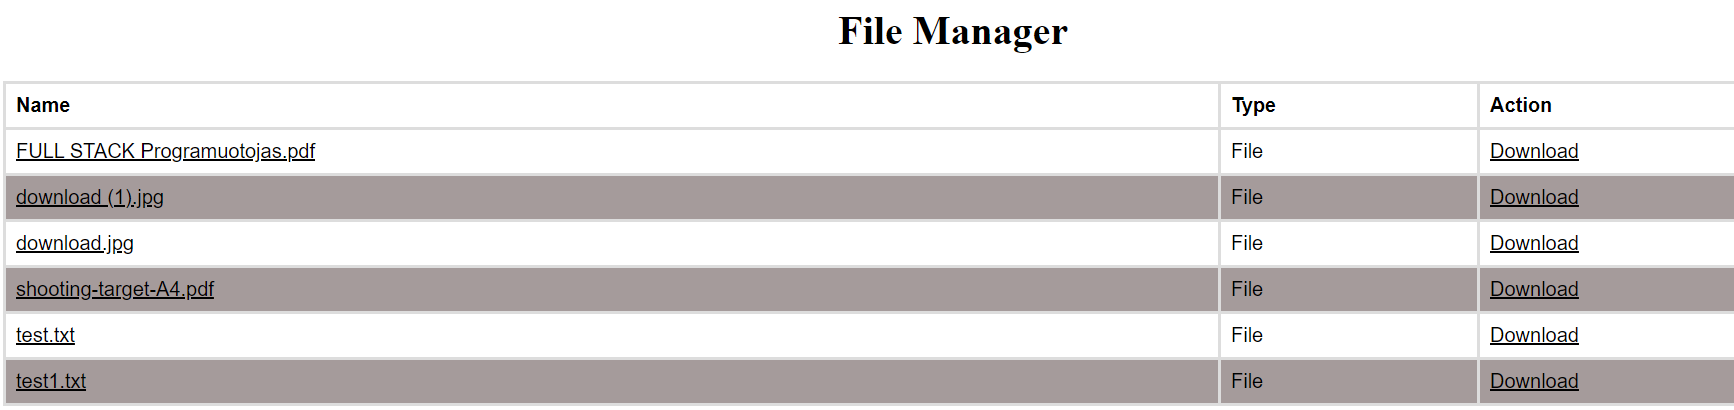
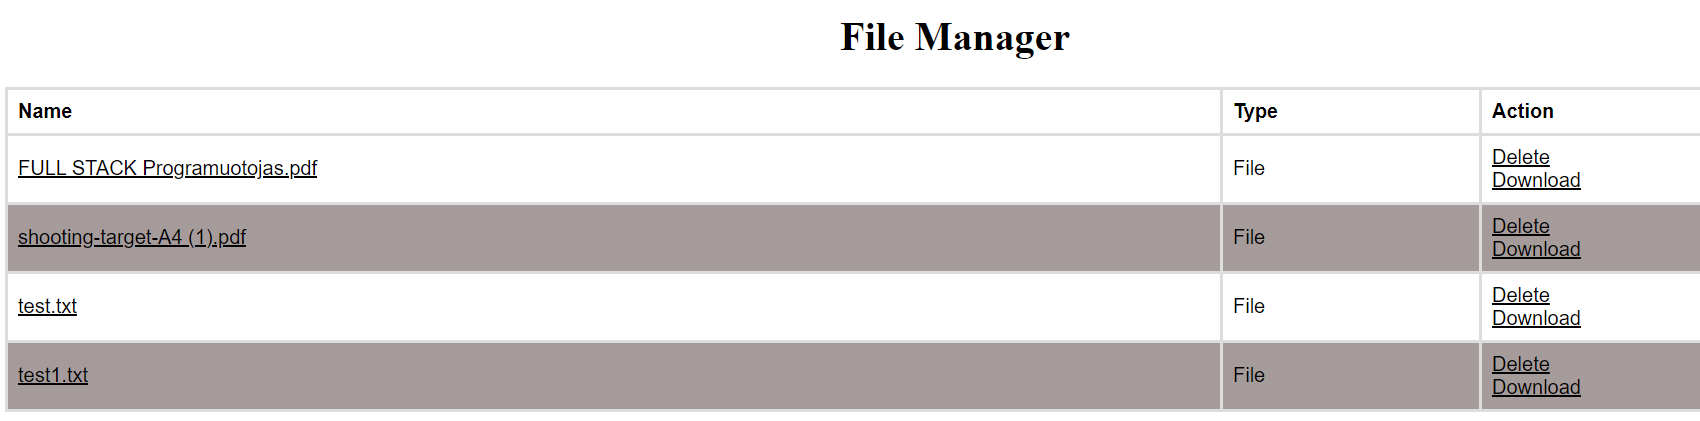
initial commit

diff --git a/FileManager/welcome.php b/FileManager/welcome.php
@@ -19,11 +19,10 @@ print('<h1>File Manager</h1>');
       foreach($files as $dir_c) {       
         print("<tr><td>" . "<a href='?path=" . $_GET['path'] . "/" . $dir_c . "'>" . $dir_c . "</a><br></td>");	
         print("<td>" . (is_dir($path . $dir_c) ? "Directory" : "File") . "</td>");     
-        print("<td>" . "<a href='download.php?link=$dir_c'> Download </a>" . "</td></tr>");    
+        print("<td>" . "<a title='Delete book' href='delete.php?del=$dir_c'>Delete</a><br>" . "<a href='download.php?link=$dir_c'> Download </a>" . "</td></tr>");    
+        
        
       } 
-      
-      
       print("</tbody>");
       echo ("</table>");
    ?>
@@ -34,6 +33,7 @@ print('<h1>File Manager</h1>');
 @mkdir($output_dir . $folder_name, 0777);        
 }
   ?>
+  
   <!-- Create folder form -->
     <form action="welcome.php" method="post" onsubmit="setTimeout(function () { window.location.reload(); }, 10)" >
     <h2>

diff --git a/FileManager/delete.php b/FileManager/delete.php
@@ -1,4 +1,7 @@
 <?php
-unlink($_GET["name"]);
-header("Location: " . $_SERVER["HTTP_REFERER"]);
+if(isset($_REQUEST['del'])) {
+    $link = './Uploads/'.$_REQUEST['del'];
+    if(unlink($link)) header('Location: ' . $_SERVER["HTTP_REFERER"]);
+    else echo "Failed";
+}
 ?>

diff --git a/FileManager/download.php b/FileManager/download.php
@@ -20,6 +20,6 @@ if(isset($_GET['link']))
        readfile($file);
        exit;
     }
-    $link = "<a href='download.php?link=$filename'> $filename </a><br />";
+    // $link = "<a href='download.php?link=$filename'> $filename </a><br />";
 } 
 ?>
